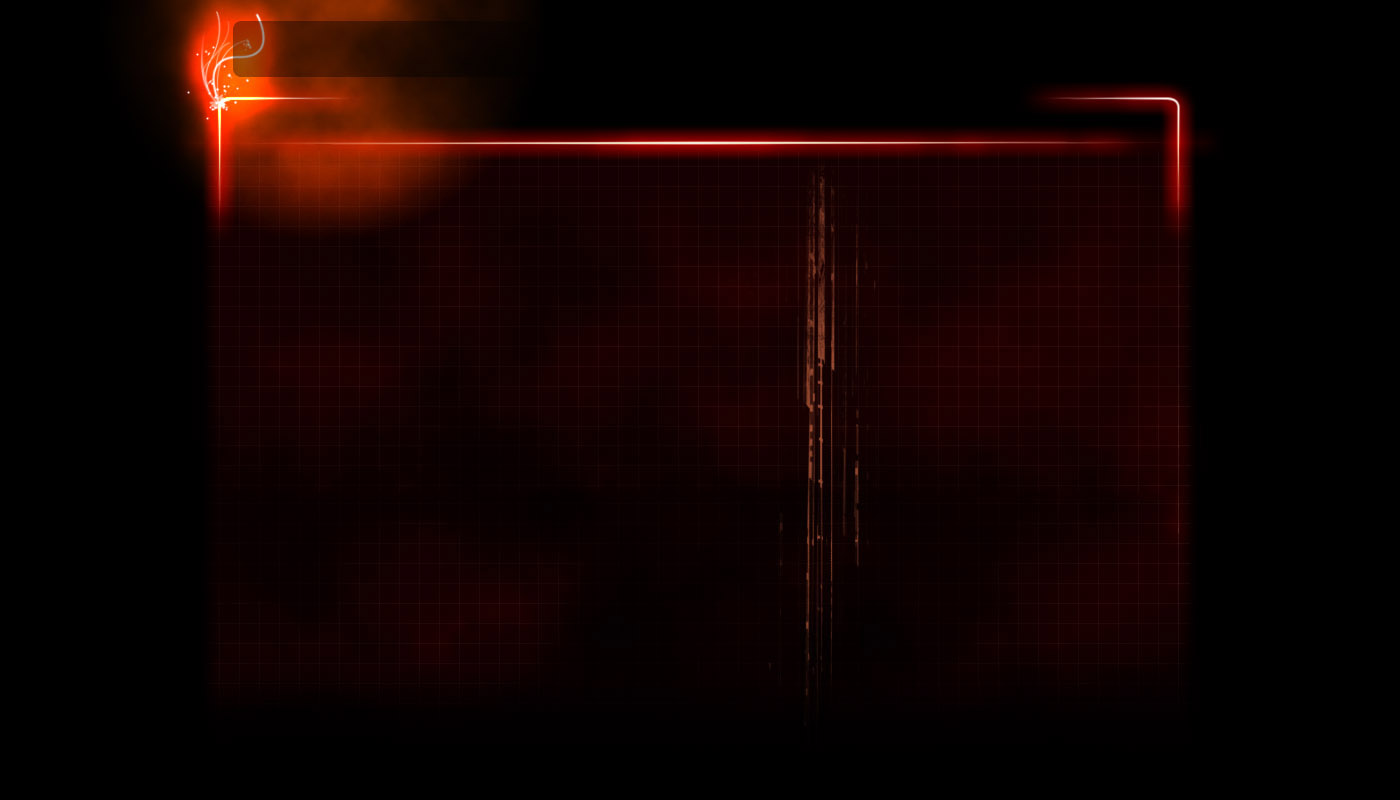
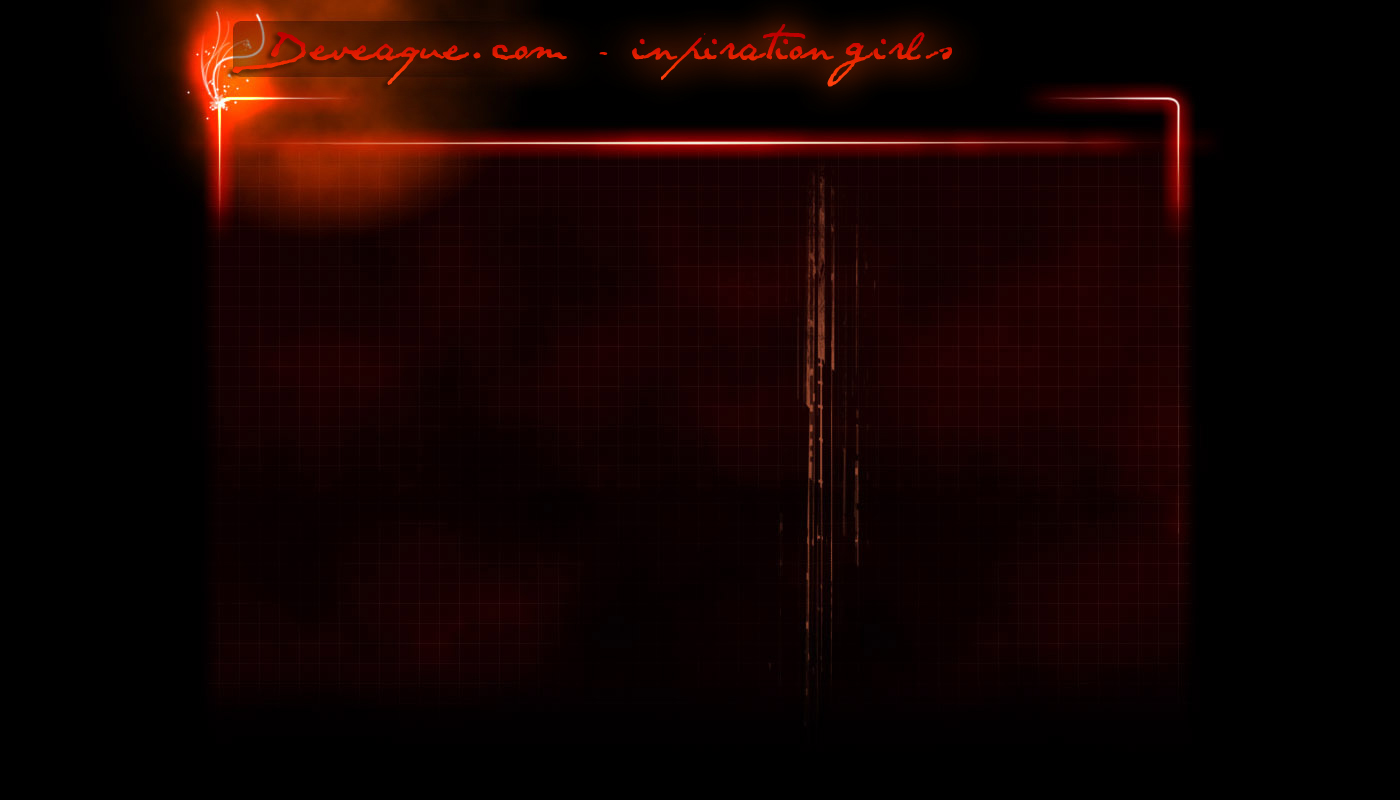
новый бг

Changed region(s): [[0.43, 0.0, 0.6757, 0.125], [0.1536, 0.0312, 0.3993, 0.125]]

diff --git a/htdocs/css/style.css b/htdocs/css/style.css
@@ -32,15 +32,15 @@ a:hover {
     color: #fff;
     position: absolute;
     left: 50%;
-    font-family: Arial;
-    font-size: 22px;
-    font-weight: bold;
     margin-left: -450px;
     top: 35px;
 }
 
 #siteTitle a {
+    position: absolute;
+    text-indent: -9999px;
     text-decoration: none;
+    width: 600px;
 }
 
 #siteTitle a:hover {
